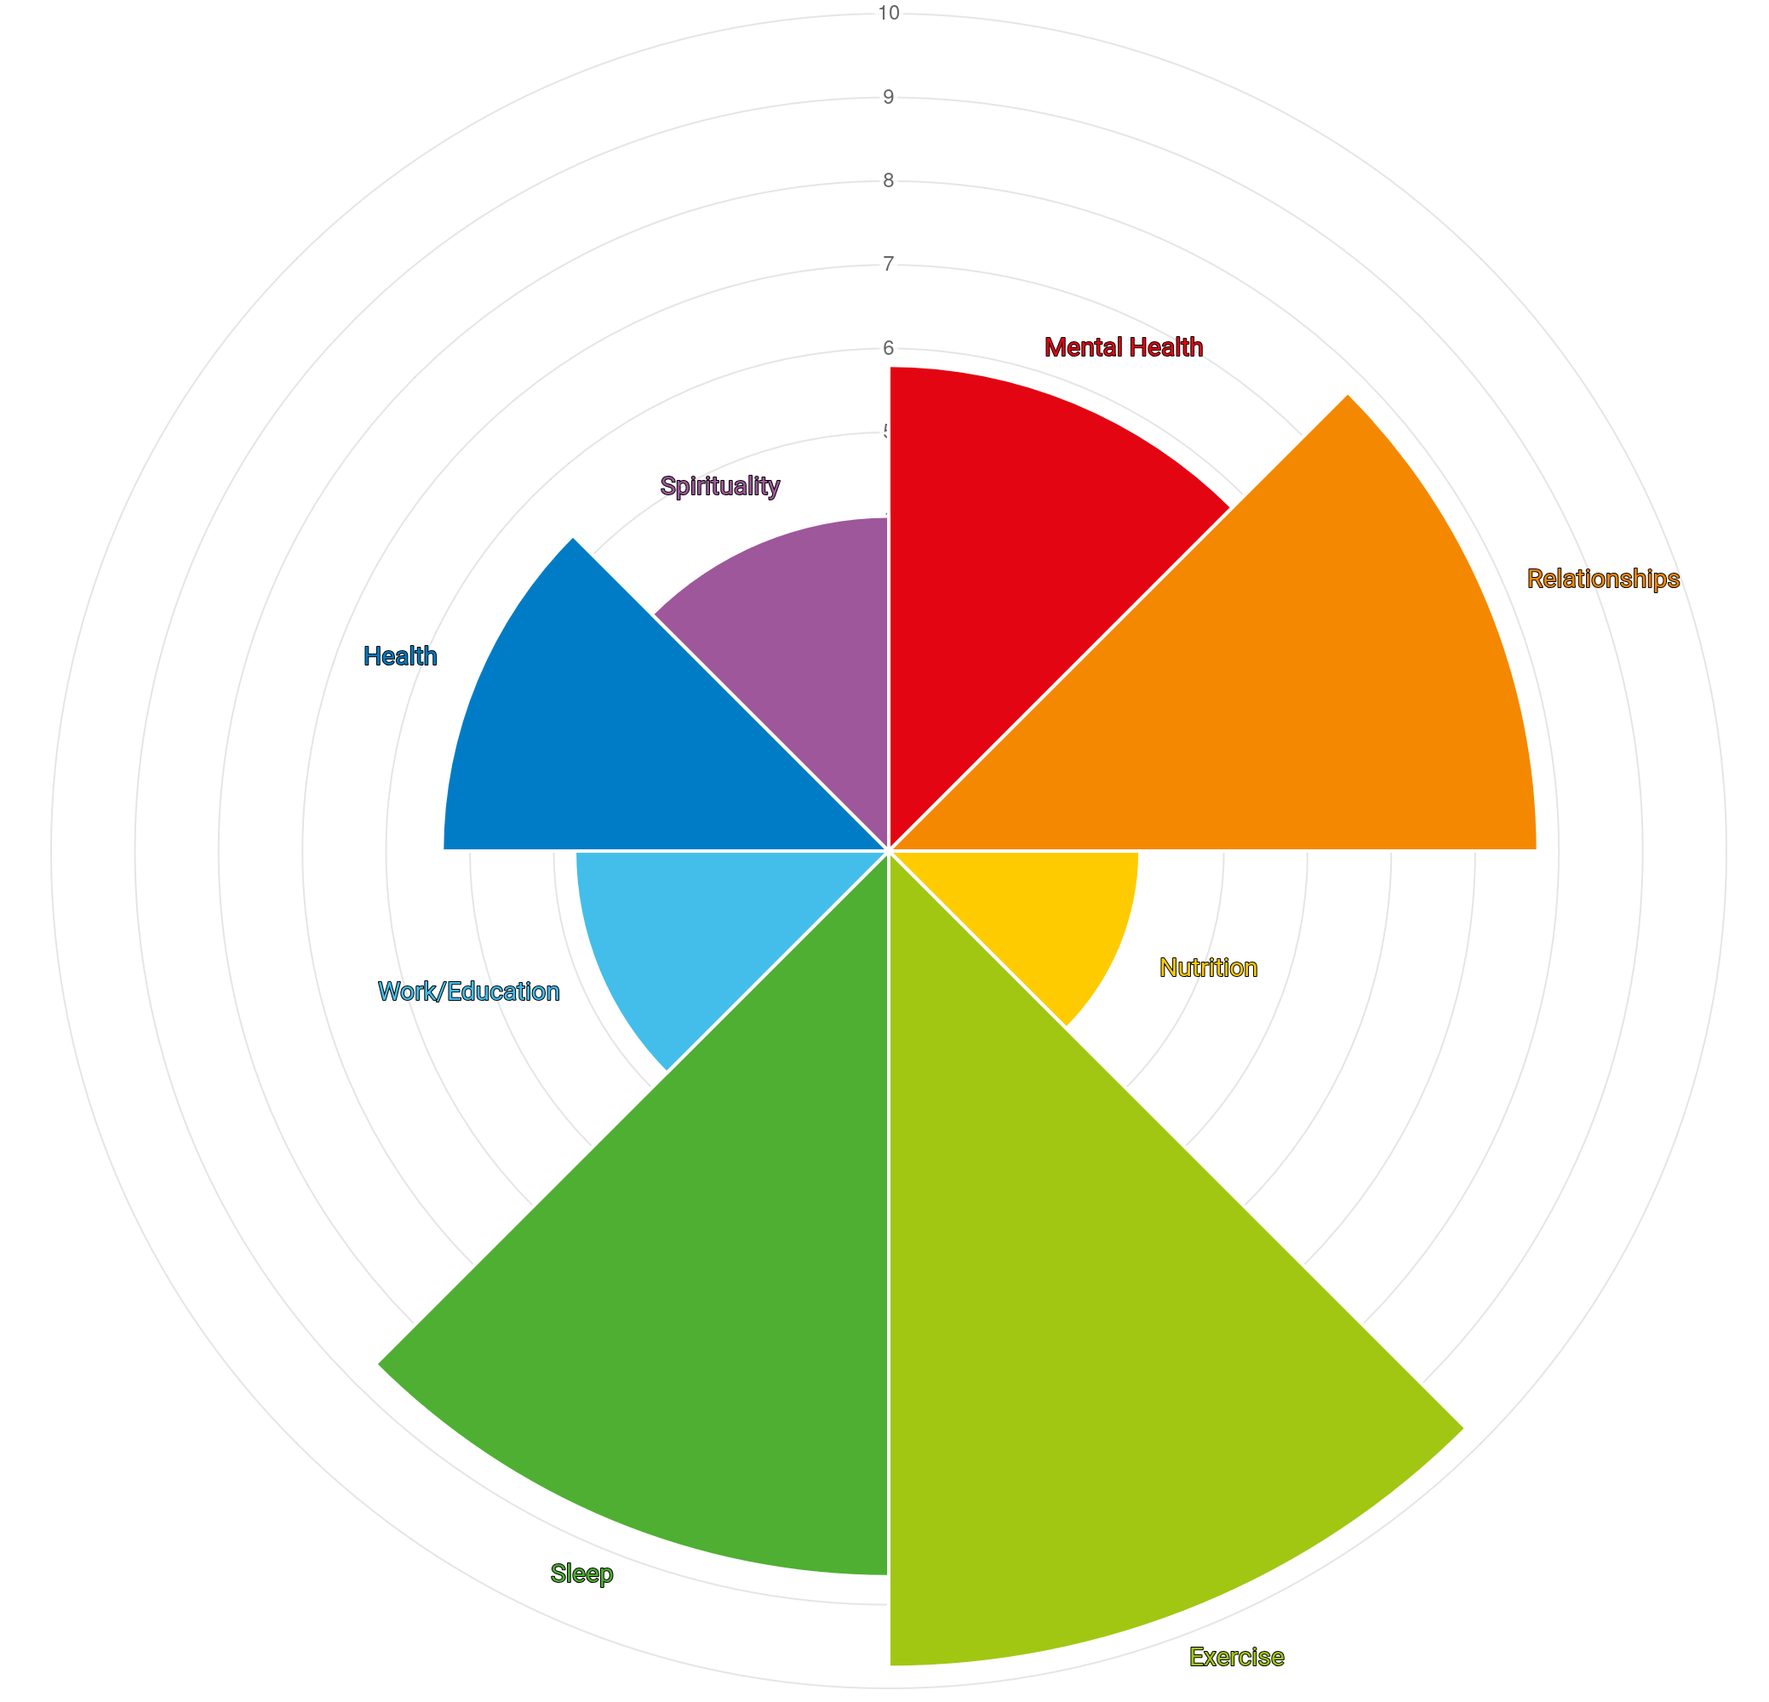
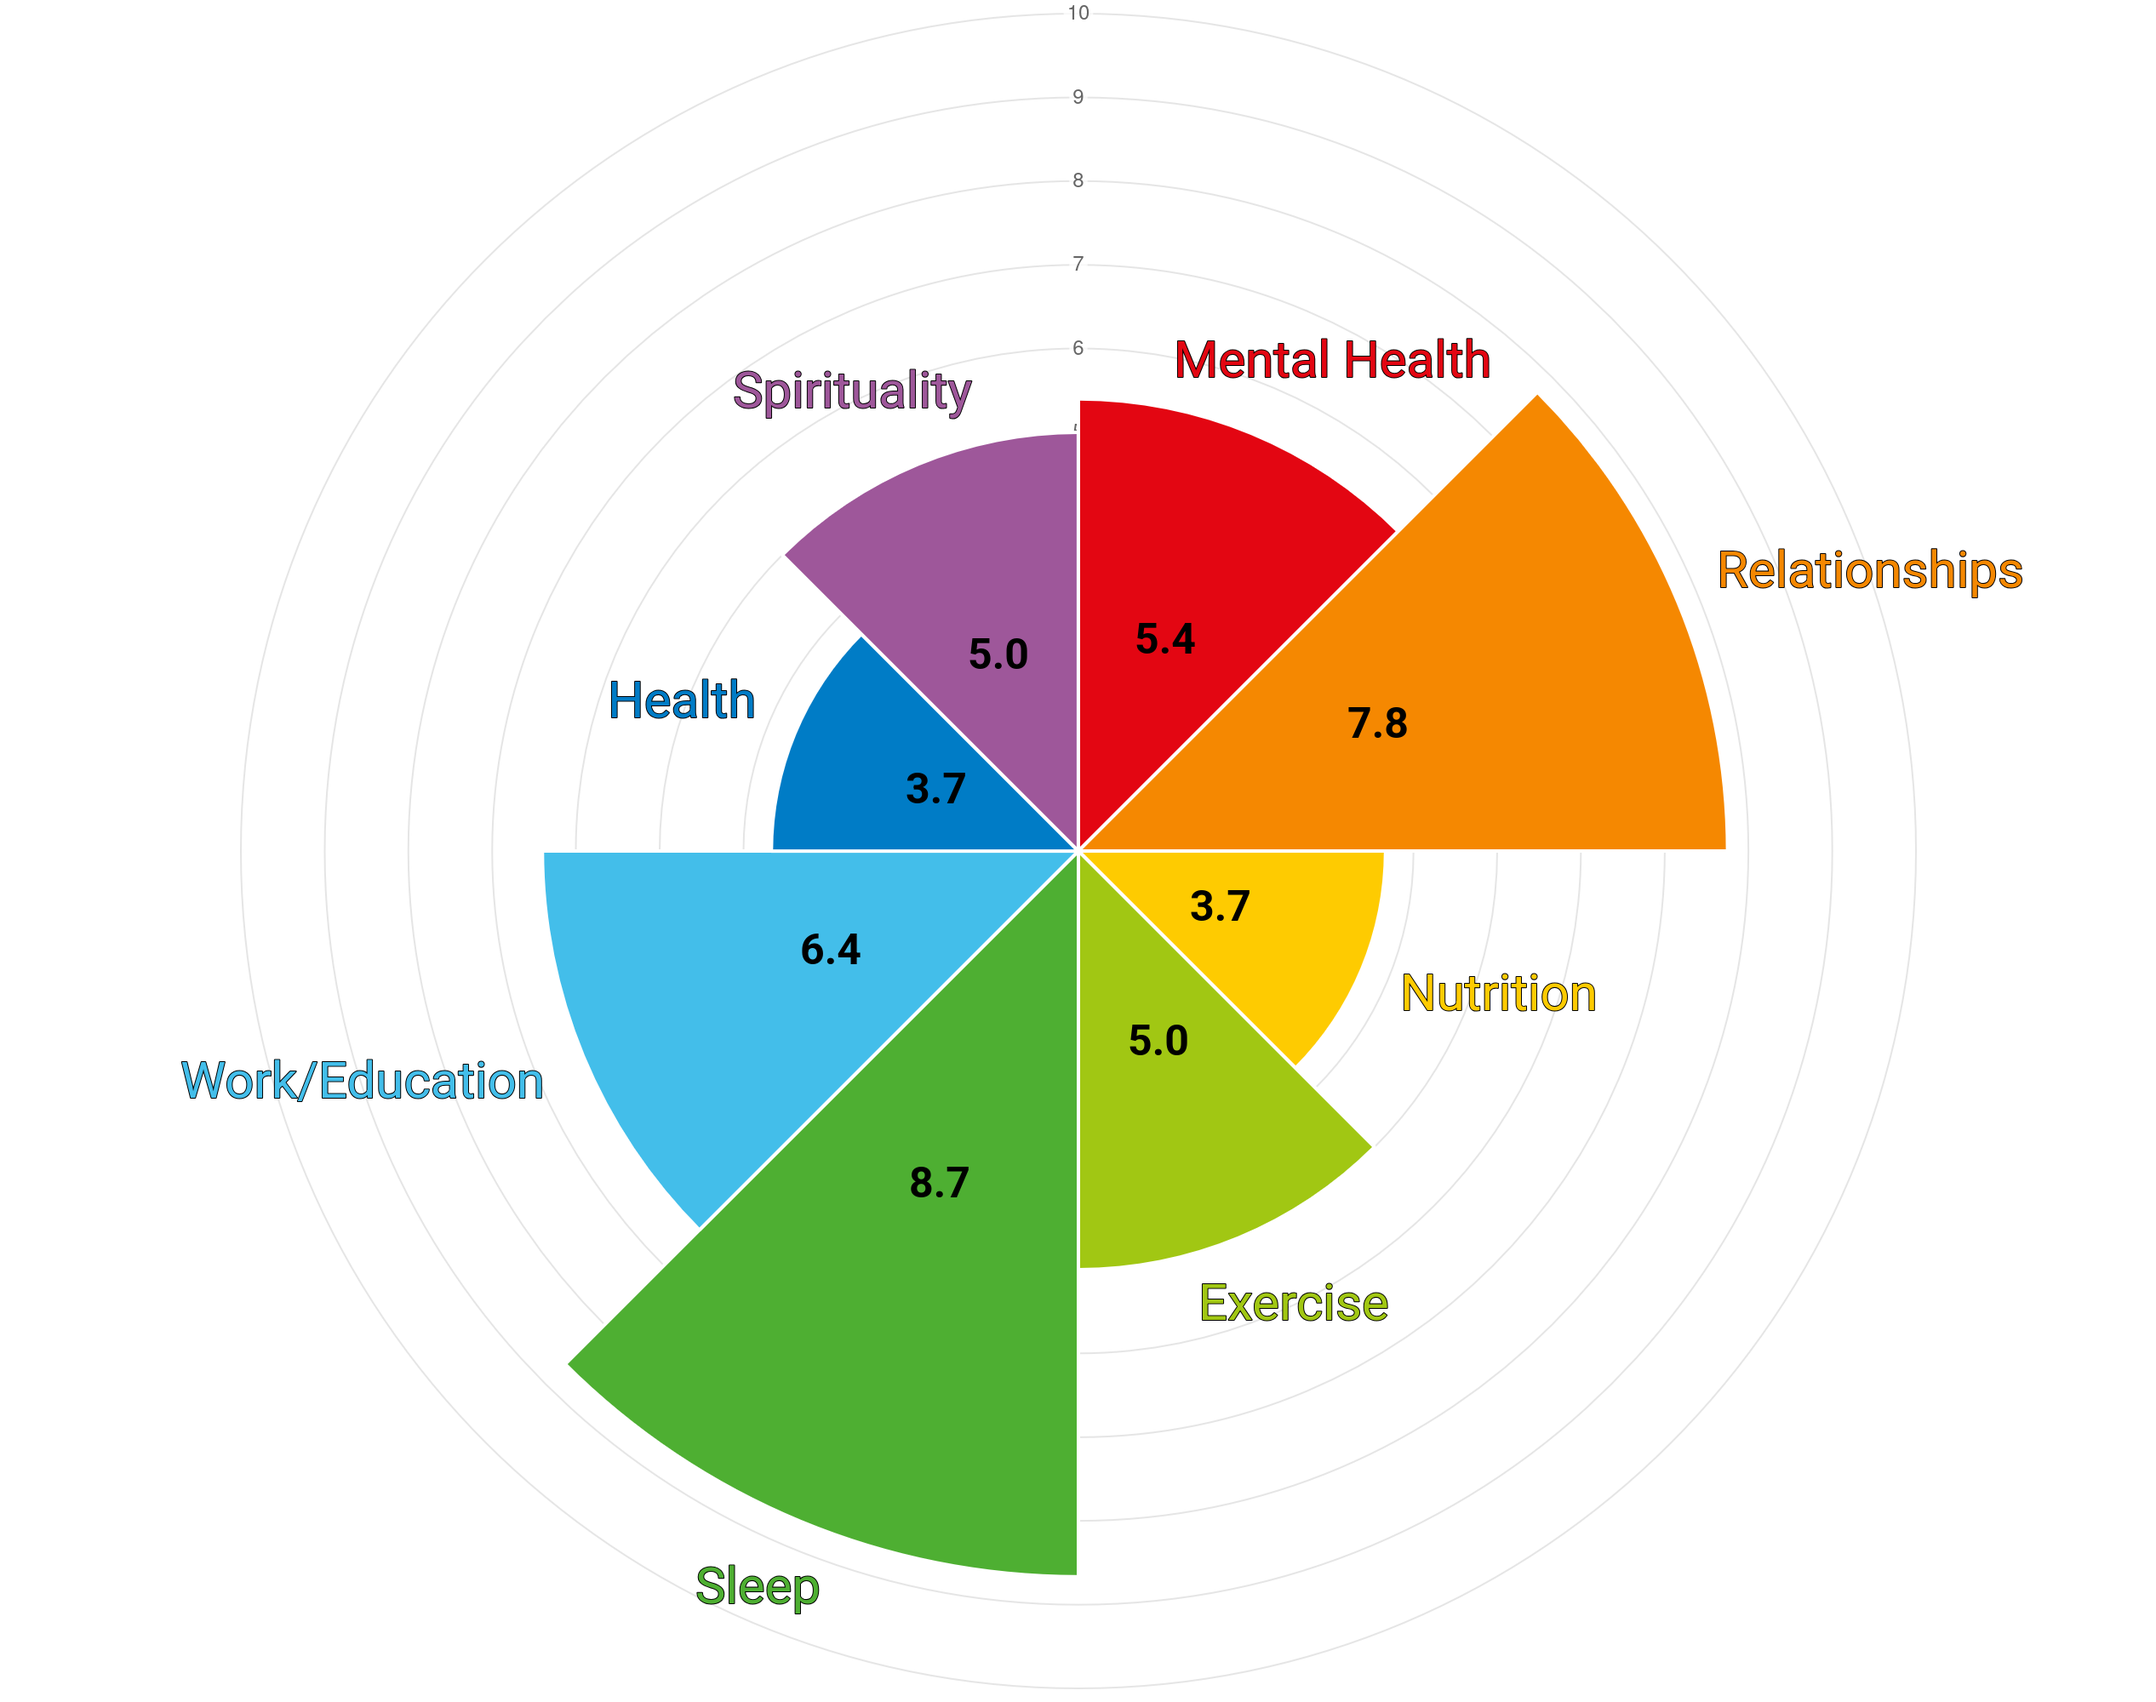
increased text size in example, render number in sector

diff --git a/src/components/ResultsWheel.tsx b/src/components/ResultsWheel.tsx
@@ -21,12 +21,60 @@ function ResultsWheel(props: ResultsWheelProps) {
     labels: props.sections,
     datasets: [
       {
-        label: 'Overall Score',
+        label: 'Outer Labels (Text)',
         data: chartData,
         backgroundColor: props.colors,
-        borderColor: 'rgb(255, 255, 255)'
+        borderColor: 'rgb(255, 255, 255)',
+        datalabels: {
+          textStrokeColor: 'black',
+          textStrokeWidth: 1,
+          font: (context: Context) => {
+            const value = context.dataset.data[context.dataIndex] as number;
+            const minSize = 13;
+            const maxSize = 50;
+            const scaledSize = minSize + (maxSize - minSize) * (value / 10);
+            return {
+              size: scaledSize
+            }
+          },
+          color: (context: Context) => {
+            const datasetIndex = context.datasetIndex;
+            const index = context.dataIndex;
+            return context.chart.data.datasets[datasetIndex].backgroundColor[index];
+          },
+          formatter: (v: number, context: Context) => {
+            let key = (context.chart.data.labels as string[])[context.dataIndex];
+            return key;
+          },
+          anchor: 'end',
+          align: 'end',
+          offset: (context: Context) => context.chart.width / 100,
+        },
       },
-    ],
+      {
+        label: 'Inner Numbers',
+        data: chartData,
+        backgroundColor: 'rgba(0, 0, 0, 0)', // invisible
+        borderColor: 'rgba(0, 0, 0, 0)', // invisible
+        datalabels: {
+          display: true,
+          anchor: 'center',
+          align: 'center',
+          color: 'black',
+          font: (context: Context) => {
+            const value = context.dataset.data[context.dataIndex] as number;
+            const minSize = 5;
+            const maxSize = 50;
+            const scaledSize = minSize + (maxSize - minSize) * (value / 10);
+            return {
+              size: scaledSize,
+              weight: 'bold',
+            }
+          },
+          formatter: (value: number) => value.toFixed(1),
+        },
+      }
+    ]
   };
 
   const options = {
@@ -37,6 +85,8 @@ function ResultsWheel(props: ResultsWheelProps) {
     maintainAspectRatio: false,
     layout: {
       padding: {
+        top: 100,
+        bottom: 100,
         left: props.aspect > 1.2 ? 150 : 30,
         right: props.aspect > 1.2 ? 290 : 30,
       }
@@ -52,36 +102,11 @@ function ResultsWheel(props: ResultsWheelProps) {
       legend: {
         display: props.aspect > 1.2,
         position: 'left',
-        layout: {
-        }
       },
       title: {
-        display: false,
-        text: 'Vitality Coach result',
       },
-      datalabels: {
-        textStrokeColor: 'black',
-        textStrokeWidth: 1,
-        font: {
-          family: 'Roboto',
-          size: 17,
-        },
-        color: (context: Context) => {
-          const datasetIndex = context.datasetIndex;
-          const index = context.dataIndex;
-          // Access the color of the specific segment
-          return context.chart.data.datasets[datasetIndex].backgroundColor[index];
-        },
-        formatter: (v: number, context: Context) => {
-          let key = (context.chart.data.labels as string[])[context.dataIndex];
-          return key;
-        },
-        anchor: 'end',
-        align: 'end',
-        offset: (context: Context) => {
-          return context.chart.width / 100;
-        },
-      }
+      display: false,
+      text: 'Vitality Coach result',
     },
   };
 
@@ -99,7 +124,7 @@ function ResultsWheel(props: ResultsWheelProps) {
 
   return (
     <>
-      {(chartRendered < 2) && <PolarArea data={data} options={options} width={props.aspect > 1.2 ? 2000 : 1000} height={1000} ref={chartRef} />}
+      {(chartRendered < 3) && <PolarArea data={data} options={options} width={props.aspect > 1.2 ? 2000 : 1000} height={1000} ref={chartRef} />}
       <img src={props.base64Image} alt="Chart as Image" style={{
         width: "90vw"
       }} />

diff --git a/src/screens/Home.tsx b/src/screens/Home.tsx
@@ -15,6 +15,10 @@ function HomeScreen(props: HomeScreenProps) {
       margin: "8vw",
       marginTop: "5%",
     }}>
+      <button
+        onClick={() => props.nextScreen("questions")}
+        className='floating-button'
+      >Start the assessment</button>
       <div style={{
         display: "flex",
         justifyContent: "center",
@@ -23,10 +27,6 @@ function HomeScreen(props: HomeScreenProps) {
       }}>
         <h1>The <b>Wheel of Vitality</b></h1>
         <p>An interactive assessment designed to self-evaluate your commitment to achieving optimal functioning and well-being in crucial areas of life.</p>
-        <button
-          onClick={() => props.nextScreen("questions")}
-          className='start-button'
-        >Get Started</button>
       </div>
 
       <figure style={{
@@ -47,6 +47,10 @@ function HomeScreen(props: HomeScreenProps) {
     marginTop: "0px",
     height: "100vh",
   }}>
+    <button
+      onClick={() => props.nextScreen("questions")}
+      className='floating-button-mobile'
+    >Start the assessment</button>
     <h1 style={{
       fontSize: "2.5em"
     }}>The <b>Wheel of Vitality</b></h1>
@@ -58,11 +62,6 @@ function HomeScreen(props: HomeScreenProps) {
         width: "70vw",
       }} />
     </figure>
-
-    <button
-      onClick={() => props.nextScreen("questions")}
-      className='start-button'
-    >Get Started</button>
   </div>
 
   return (
@@ -108,11 +107,6 @@ function HomeScreen(props: HomeScreenProps) {
         <p>
           My Wheel of Vitality assessment is completely free. If you'd like to receive your results via email, I'll ask your permission to subscribe to my occasional newsletter. Register and have your results delivered straight to your mailbox.<br />You'll also gain access to the Vitality Clinic newsletter, packed with valuable tips, exciting projects, and practical exercises to keep you motivated and help you work toward your best life.<br />But that's not all! As a subscriber, you'll receive an exclusive offer to book your first 60-minute psychological vitality consultation with me at 50% off the regular price. This session will help you identify your goals and the barriers holding you back from a more fulfilling life. And don't worry- You can unsubscribe at any time.
         </p>
-
-        <button
-          onClick={() => props.nextScreen("questions")}
-          className='start-button2'
-        >Start the assessment</button>
       </div>
     </div >
   )

diff --git a/src/App.css b/src/App.css
@@ -3,6 +3,28 @@
   margin: 0px 0px 0px 0px;
 }
 
+.floating-button {
+  position: fixed;
+  bottom: 20px;
+  right: 20px;
+  width: 15em;
+  height: 3em;
+  border: 2px solid;
+  text-decoration: none;
+  cursor: pointer;
+}
+
+.floating-button-mobile {
+  position: fixed;
+  bottom: 20px;
+  right: 20px;
+  width: 15em;
+  height: 3em;
+  border: 2px solid;
+  text-decoration: none;
+  cursor: pointer;
+}
+
 .wrapper {
   height: 100vh;
   display: flex;

diff --git a/src/screens/Results.tsx b/src/screens/Results.tsx
@@ -38,7 +38,7 @@ function ResultsScreen(props: ResultsScreenProps) {
       }}>Must be over 18 and have agreed to the privacy policy</span>)
     } else {
 
-      setConfirmation(<span>Sending email. This may take a few minutes.</span>)
+      setConfirmation(<span>Sending email. This may take a few minutes. Keep this page open to ensure the email is sent.</span>)
 
       const requestOptions = {
         method: "POST",
